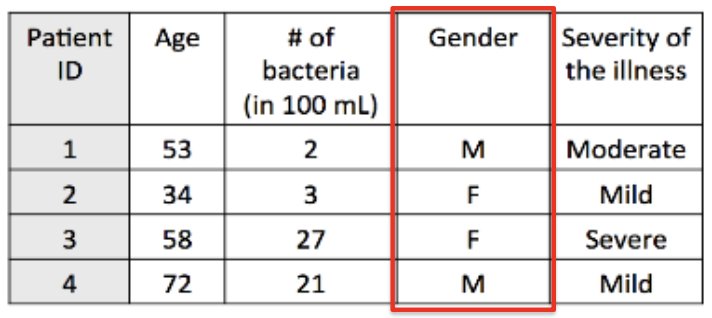
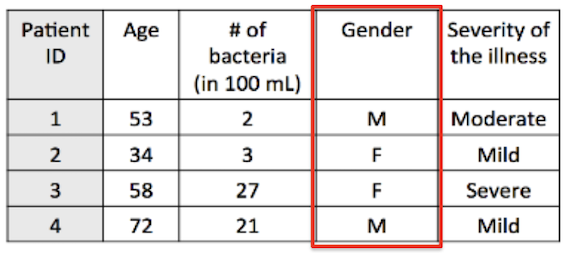
Testing updating image width part 2

diff --git a/_episodes/00-Terminology-Review.md b/_episodes/00-Terminology-Review.md
@@ -4,13 +4,16 @@
 title: "Review of Variable Terminology"
 teaching: 15
 exercises: 5
+questions:
+- "What are the different terminology variables?"
+- "What are measures of central tendency and variability?"
 objectives:
 - "Define terminology variables"
 - "Review measures of central tendency and variability"
 - "Review visualisation techniques such as box plots and histograms"
 keypoints:
 - "Understand the terminology variables that will be referenced in this workshop"
-- "Underastand how to calculate measures of central tendency and variability"
+- "Understand how to calculate measures of central tendency and variability"
 - "Understand that box plots and histograms can be used to visualise data spread"
 - "Understand the normal distribution and why normality tests are an important step in conducting statistical comparisons"
 output: html_document
@@ -26,23 +29,23 @@ Variables are the quantities measured in a sample. They may be classified as:
 
   - Continuous (e.g. age, patient cholesterol levels)
 
-  ![RStudio layout](../fig/00-fig1.png){width=70%}
+  ![RStudio layout](../fig/00-fig1.png)
 
   - Discrete (take a finite number of values)
 
-  ![RStudio layout](../fig/00-fig2.png){width=70%}
+  ![RStudio layout](../fig/00-fig2.png)
 
 – Categorical
 
   - Nominal (e.g. gender, blood group)
 
-  ![RStudio layout](../fig/00-fig3.png){width=70%}
+  ![RStudio layout](../fig/00-fig3.png)
 
   - Ordinal (ranked e.g. mild, moderate or severe illness)
 
-  ![RStudio layout](../fig/00-fig4.png){width=70%}
-  
-    - Often ordinal variables are re-coded to be quantitative.
+  ![RStudio layout](../fig/00-fig4.png)
+
+_Note: Often ordinal variables are re-coded to be quantitative._
 
 ## Measures of Central Tendency and variability
 
@@ -56,7 +59,7 @@ Numerical descriptive measures include:
 The mean is the sum of measurements divided by the total number of measurements. If the data are arranged in increasing order, the median is:
 
 - the middle value if n is an odd number, or
-the midway between the two middle values if n is an even number
+- the midway between the two middle values if n is an even number
 
 The mode is the most commonly occurring value (value with the highest frequency).
 
@@ -64,12 +67,14 @@ The mode is the most commonly occurring value (value with the highest frequency)
 > The systolic blood pressure of seven middle aged men were as follows:
 > 151, 124, 132, 170, 146, 124 and 113
 >
-> **Mean:**
-> $$\bar{x} = \frac{151 + 124 + 132 + 170 + 146 + 124 + 113}{7} = 137.14$$
+> **Mean:** $\bar{x} = \frac{151 + 124 + 132 + 170 + 146 + 124 + 113}{7} = 137.14$
 >
-> **Median:** 113, 124, 124, **132**, 146, 151, 170
+> **Median:**
+>
+> 113, 124, 124, **132**, 146, 151, 170
 >
 > **Mode:**
+>
 > | 113 | **124** | 132 | 146 | 151 | 170 |
 > |-----|---------|-----|-----|-----|-----|
 > | 1   | **2**   | 1   | 1   | 1   | 1   |
@@ -100,7 +105,7 @@ The sample variance, s², is the arithmetic mean of the squared deviations from 
 
 $$s^2 = \frac{\sum_{i=1}^{n}(x_i - \bar{x})^2}{n-1}$$
 
-![RStudio layout](../fig/00-fig5.png){width=50%}
+![RStudio layout](../fig/00-fig5.png)
 
 The sample standard deviation, s, is the square-root of the variance.
 
@@ -129,42 +134,40 @@ The interquartile range (IQR) is the difference between the first and third quar
 
 A box-plot is a visual description of the distribution based on:
 
-– Minimum
-– Q1
-– Median
-– Q3
-– Maximum
+- Minimum
+- Q1
+- Median
+- Q3
+- Maximum
 
 Box-plots are useful for comparing samples from several different treatments or population.
 
-![RStudio layout](../fig/00-fig6.png){width=50%}
+![RStudio layout](../fig/00-fig6.png)
 
 ## Histograms
 
-A histogram is used to display the distribution of quantitative data in which the values are broken in a number of bins.
-The histogram is obtained by drawing rectangles in which the bases are the bins intervals and the heights are the counts in each bin.
+A histogram is used to display the distribution of quantitative data in which the values are broken in a number of bins. The histogram is obtained by drawing rectangles in which the bases are the bins intervals and the heights are the counts in each bin.
 
-Histograms are usually accompanied by a Probability Density Function, which is used for calculating the probabilities for continuous random variables 
-and represents the density of probability for a continuous random variable over the specified ranges.
+Histograms are usually accompanied by a Probability Density Function, which is used for calculating the probabilities for continuous random variables and represents the density of probability for a continuous random variable over the specified ranges.
 
-![RStudio layout](../fig/00-fig7.png){width=80%}
+![RStudio layout](../fig/00-fig7.png)
 
 ## The Normal Distribution
 
-Many variables of interest follow a normal distribution (e.g. age, height, weight, …). The normal distribution has a symmetric bell-shaped density curve,
-and is characterised by two parameters:
+Many variables of interest follow a normal distribution (e.g. age, height, weight, …). The normal distribution has a symmetric bell-shaped density curve, and is characterised by two parameters:
 
 1. the mean µ
 2. standard deviation σ
 
 X follows a Normal distribution with the parameters μ (mean) and σ (standard deviation):
-$X \sim N(\mu, \sigma)$
 
-![RStudio layout](../fig/00-fig8.png){width=60%}
+$$X \sim N(\mu, \sigma)$$
+
+![RStudio layout](../fig/00-fig8.png)
 
 ### Measures of variability: Which one to use?
 
-![RStudio layout](../fig/00-fig9.png){width=50%}
+![RStudio layout](../fig/00-fig9.png)
 
 | Type of variable | Best measure of central tendency | Best measure of spread |
 |---|---|---|
@@ -173,17 +176,15 @@ $X \sim N(\mu, \sigma)$
 
 ### Tests for normality and variance equivalence
 
-If our outcome variable is continuous and we are measuring it between two or more groups, then there are two additional tests that will need to be performed
-to help us identify which is the correct statistical test to test the hypothesis on.
+If our outcome variable is continuous and we are measuring it between two or more groups, then there are two additional tests that will need to be performed to help us identify which is the correct statistical test to test the hypothesis on.
 
 1. **The Shapiro-Wilks’ test of Normality**
 2. **The Levene’s test of Equality of Variances**
 
-Normal distribution: How to know?
+#### Normal distribution: How to know?
 
 To assess whether or not a random sample is selected from a normal distribution:
 
 - Normal probability plot (quantile-quantile plot) to visualize the normality of the data
-- Shapiro-Wilk test:
+- Shapiro-Wilk test: H<sub>0</sub>: x<sub>1</sub>, …, x<sub>n</sub> are from a normally distributed population
 
-H<sub>0</sub>: x<sub>1</sub>, …, x<sub>n</sub> are from a normally distributed population
